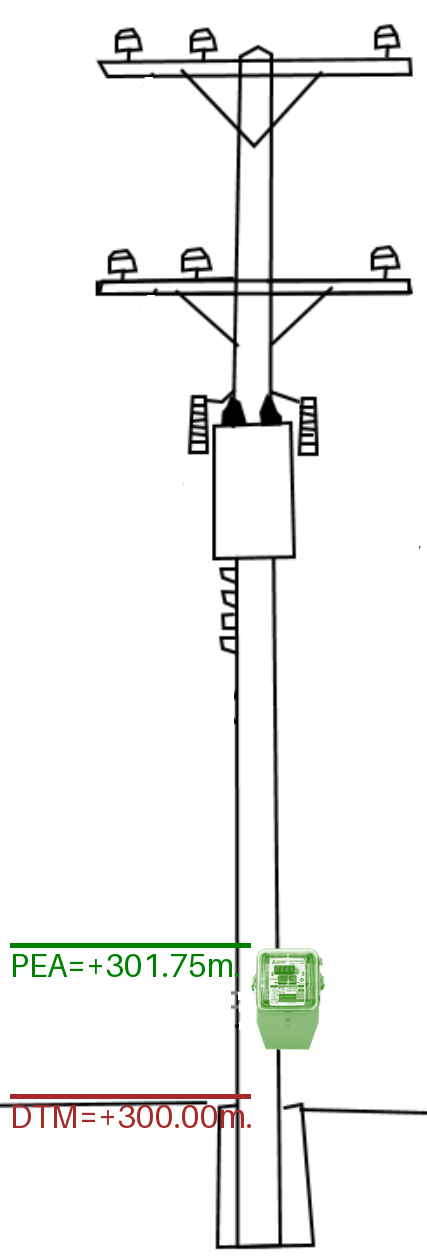
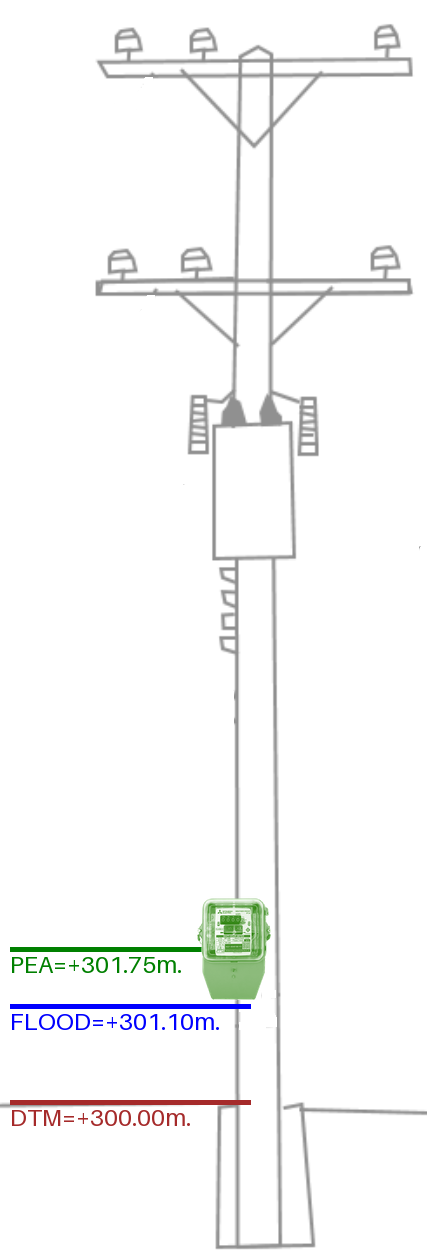
Add files via upload

Changed region(s): [[0.0, 0.0, 1.0, 0.9905]]

diff --git a/InundtMeterPole.py b/InundtMeterPole.py
@@ -1,31 +1,40 @@
 #
+# Script Name: InundtMeter.py
+# Description: Draw a diagram of a 'wet' or 'dry' wattmeter installed at a height
+#              of 1.75 meters off the ground. Also, show a scenario where
+#              the wattmeter should be elevated.
+# Author: P.Santitamnont (phisan.s@cdg.co.th, phisan.chula@gmai.com )
+# Version: 0.5 
+# Date:  2024-Oct-27
+#     
 #
-#
+import cv2
 import numpy as np
 from pathlib import Path
 from PIL import Image, ImageDraw, ImageFont
 
 class ImageObject:
-    def __init__(self, FILE, CANVAS ): 
+    def __init__(self, FILE, CANVAS, centroid=False ): 
+        self.thisImageCNTR = centroid
         self.thisImage = Image.open( FILE ).convert('RGBA')
         self.CANVAS = CANVAS
 
     def Resize(self, SIZE_PERC):
         wh = (SIZE_PERC*np.array( self.thisImage.size )).astype( np.int16 ) 
-        #import pdb ; pdb.set_trace()
         self.thisImage = self.thisImage.resize( (wh[0],wh[1]), Image.Resampling.LANCZOS )
 
-    def Paste(self, AT_W, AT_H, normalized=True, centroid=False ): 
+    def Paste(self, AT_W, AT_H, normalized=True ): 
         ''' reference point is Upper-Left, otherwise 'centroid' is True  '''
         wc,hc = self.CANVAS.size
         wi,hi = self.thisImage.size 
         if normalized:
             AT_W = int(AT_W*wc) 
             AT_H = int(AT_H*hc) 
-        if centroid:
-            AT_W = int(wc/2 - wi/2) 
-            AT_H = int(hc/2 - hi/2)
+        if self.thisImageCNTR:
+            AT_W = AT_W - int(wi/2) 
+            AT_H = AT_H - int(hi/2)
         self.CANVAS.alpha_composite( self.thisImage , (AT_W,AT_H) )
+        #import pdb ; pdb.set_trace()
 
 class InundatMeter:
     def __init__(self, DTM ):
@@ -36,46 +45,64 @@ class InundatMeter:
 
         self.CANVAS_UPPER = 0.040
         self.CANVAS_LOWER = 0.875
+        self.X_METER     = 0.72
+
         self.NORM_METER = (self.CANVAS_LOWER-self.CANVAS_UPPER)/self.POLE  # pixel per meter
 
         PIC_DIR = Path( r'./pics/' )
         self.Canvas = Image.new("RGBA",  (427,1260), (255,255,255,255) )
+        self.NP_ARR = np.array(self.Canvas)
 
         ImageFont.load_default(size=12)
         self.DRAW = ImageDraw.Draw( self.Canvas )
 
-        elect_pole = ImageObject( PIC_DIR / 'PEA_Pole.png', self.Canvas )
-        elect_pole.Paste( 0.5, 0.5, centroid=True ) 
+        elect_pole = ImageObject( PIC_DIR / 'PEA_Pole_GRAY.png', self.Canvas )
+        elect_pole.Paste( 0.0, 0.0 ) 
         #import pdb ; pdb.set_trace()
-        self.green_meter = ImageObject( PIC_DIR/'WattHourMeter_GREEN.png', self.Canvas )
+        self.green_meter = ImageObject( PIC_DIR/'WattHourMeter_GREEN.png', self.Canvas, centroid=True )
         self.green_meter.Resize( 0.15 )
 
-        self.red_meter = ImageObject( PIC_DIR/'WattHourMeter_RED.png', self.Canvas )
+        self.red_meter = ImageObject( PIC_DIR/'WattHourMeter_RED.png', self.Canvas, centroid=True )
         self.red_meter.Resize( 0.15 )
 
         if 0: # test
             self.green_meter.Paste( 0.5, self.CANVAS_UPPER  )
             self.red_meter.Paste( 0.5, self.CANVAS_LOWER  )
         
+    def MSL_NORM( self, MSL ):  # normalized!
+        return self.CANVAS_LOWER-self.NORM_METER*(MSL-self.DTM)
+
     def PlotLevel(self, TEXT, AT_MSL, color ):
         "draw line and text at specified level"
         def Calc_row( AT_MSL ):   # normalized!
-            #import pdb ; pdb.set_trace()
             return self.CANVAS_LOWER-self.NORM_METER*(AT_MSL-self.DTM)
         row_norm = Calc_row(AT_MSL)
         at_hei = int( self.Canvas.size[1]*row_norm )
         self.DRAW.line( [ (10,at_hei), (250,at_hei) ], fill=color, width=5 ) 
-        self.DRAW.text( ( 10,at_hei), f'{TEXT}={AT_MSL:+.2f}m.', fill=color, font_size=32 )
+        self.DRAW.text( ( 10,at_hei), f'{TEXT}={AT_MSL:+.2f}m.', fill=color, font_size=24 )
+
         return at_hei,row_norm 
 
     def WetMeter(self, FLOOD_LEVEL ):
         assert self.MSL_METER<=FLOOD_LEVEL
         self.PlotLevel( 'DTM', self.DTM, 'brown' ) 
-        at_hei,row_norm = self.PlotLevel( 'PEA', self.PEA_METER+self.DTM, 'red' ) 
-        #import pdb ; pdb.set_trace()
-        self.red_meter.Paste( 0.55, row_norm )
-        at_hei,row_norm = self.PlotLevel( 'FLOOD', FLOOD_LEVEL, 'blue' ) 
-        self.green_meter.Paste( 0.55, row_norm )
+        hei_PEA,row_norm = self.PlotLevel( 'PEA', self.PEA_METER+self.DTM, 'red' ) 
+
+        self.red_meter.Paste( self.X_METER, row_norm )
+        hei_FLD,row_norm = self.PlotLevel( 'FLOOD', FLOOD_LEVEL, 'blue' ) 
+        self.green_meter.Paste( self.X_METER, row_norm )
+
+        self.DRAW.line( [ (350,hei_PEA), (350,hei_FLD ) ], fill='green', width=10 ) 
+        def DrawArrow( xy ):
+            x,y = xy; s = 20
+            self.DRAW.line( [ (x,y), (x-s,y+s) ], fill='green', width=10 ) 
+            self.DRAW.line( [ (x,y), (x+s,y+s) ], fill='green', width=10 ) 
+            #import pdb ; pdb.set_trace()
+        DrawArrow( ( 350,hei_FLD ) )
+
+        UP_OFF = FLOOD_LEVEL-self.MSL_METER
+        MID = self.MSL_NORM( (FLOOD_LEVEL + self.MSL_METER)/2 ) *  self.Canvas.size[1]
+        self.DRAW.text( ( 190, MID ), f'UP={UP_OFF:+.2f}m.', fill='green', font_size=24 )
 
     def DryMeter(self, FLOOD_LEVEL ):
         assert self.MSL_METER>=FLOOD_LEVEL
@@ -93,12 +120,14 @@ class InundatMeter:
 
 ############################################################################
 if __name__ == '__main__':
-    im = InundatMeter( DTM=200)
-    im.WetMeter( 205.4 )
-    print('Writing "DiagramWetMeter.png" ...')
-    im.save( "DiagramWetMeter.png")
+    if 1:
+        im = InundatMeter( DTM=200)
+        im.WetMeter( 205.4 )
+        print('Writing "DiagramWetMeter.png" ...')
+        im.save( "DiagramWetMeter.png")
     ##########################################
-    im = InundatMeter( DTM=300)
-    im.DryMeter( FLOOD_LEVEL=301.1 )
-    print('Writing "DiagramDryMeter.png" ...')
-    im.save( "DiagramDryMeter.png")
+    if 1:
+        im = InundatMeter( DTM=300)
+        im.DryMeter( FLOOD_LEVEL=301.1 )
+        print('Writing "DiagramDryMeter.png" ...')
+        im.save( "DiagramDryMeter.png")
